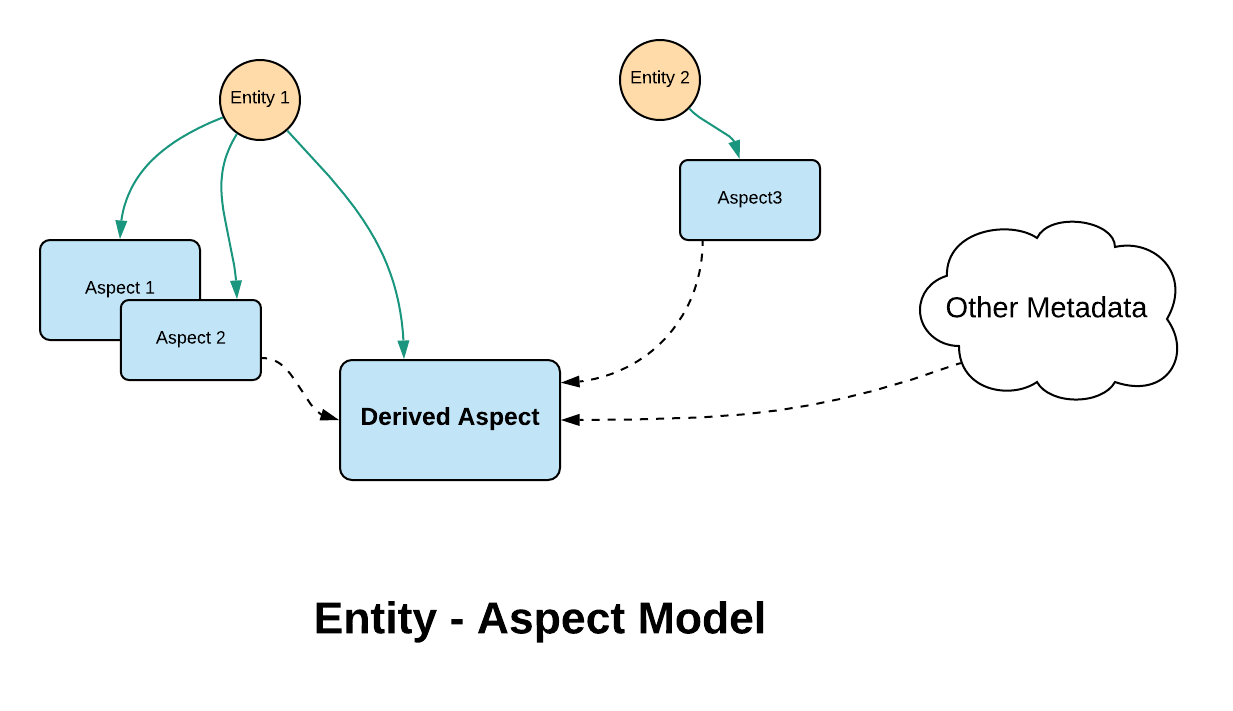
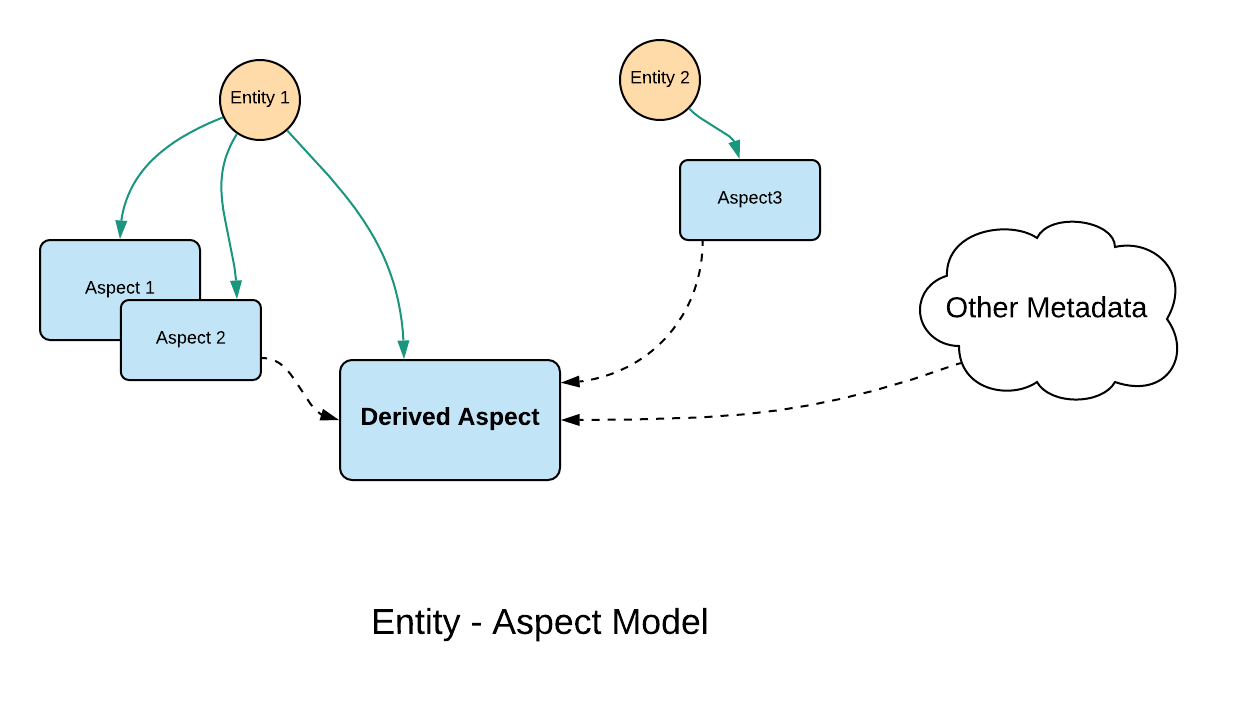
feat(derived-metadata): RFC for derived aspects
Updating the pictures and making content more clearer.

Changed region(s): [[0.2466, 0.8354, 0.6164, 0.8973]]

diff --git a/docs/rfc/derived-aspects/derived-aspects.md b/docs/rfc/derived-aspects/derived-aspects.md
@@ -16,18 +16,20 @@ In this feature we will discuss how we can enable search and discovery on the de
 
 ## Basic example
 
-Metadata `Health` of a dataset is a typical example of this feature. The details of metadata `Health` will be covered in a separate RFC.
+Metadata `Health` of a dataset is a typical example of this feature. The details of metadata `Health` will be covered in a separate RFC (the review of `Health` metadata is out of scope of this RFC)
 
 To put it simple,  
-- Health is a derived using metadata from multiple aspects
-- Promote healthy datasets in search of the datasets
-- There are organizational needs to rollup unhealthy (or healthy) datasets to a ldap/manager/team. This has the needs to query graph in conjucntion with health metadata.
+- Health metadata is derived using metadata from multiple aspects.
+- A need for promoting healthy datasets in search of the datasets.
+- There are organizational needs to rollup unhealthy (or healthy) datasets to a ldap/manager/team. This has the needs to query graph in conjunction with health metadata.
+    - Number of unhealthy datasets owned by me.
+    - Number of unhealthy datasets owned by my organization.
 
 ## Motivation
 In the context of derived metadata, we need the ability to 
 1. Compute from different aspects
-2. Maintaining versions of the derived metadata 
-3. Notify in the event of change of derived metadata
+2. Maintain versions of the derived metadata 
+3. Notify in the event of change in derived metadata
 4. Search of entities powered with derived metadata
 5. Graph query needs of entities powered with derived metadata.  
 
@@ -36,7 +38,7 @@ In the context of derived metadata, we need the ability to
 Derived metadata can be modelled as an aspect of an entity. 
 This is similar to any other aspect but with subtle differences.
 
-- Value of this aspect gets computed only when `GET` API is called. 
+- Value of this aspect gets computed only when `GET` API is invoked. 
 - `GET` API computes, persists and retrieves the metadata from the KV store.
 
 ### Entity Aspect Model
@@ -63,17 +65,17 @@ Whereas, `GET` API for derived aspect, does something more than that. A typical 
 4. Retrieve latest value of derived metadata and serve the `GET` request.
   
 The persistence of the derived aspect follows GMA architecture. This helps with few of the motivational points mentioned. 
-- Versioning capabilities of the metadata 
-- Notification in the form of MAE when derived aspect metadata has changed. 
+- Versioning capabilities of the derived metadata 
+- Notification in the form of MAE when derived metadata has changed. 
 
-The MAEs produced will help us power both GMA indexes search and graph. This is similar to any other GMA aspect. 
+The MAEs produced will furher power both search and graph GMA indices. This is similar to any other GMA aspect. 
 
 ### Refresh of derived aspect metadata
 `GET` operation on derived aspect always gives the current state of derived metadata. 
 
 Often, `GET` operation might not be called for all entity values. Hence, peeking into the DB doesn't guarantee to give the true state of derived aspect.
    
-Depending on how fresh we need GMA indexes and the how often we want to notify on the changes of derived aspect metadata, there is a need for a CRON job which calls GET operation for all URNs of the entity.  
+Depending on how fresh we need GMA indexes and how often we want to notify on the changes of derived aspect metadata, there is a need for a CRON job which calls GET operation for all URNs of the entity.  
 
  ![Backfill Derived Aspects](Backfill-Process.png)
 
@@ -84,30 +86,30 @@ In the above, a CRON job on a nightly basis calls `GET` API of derived aspect. T
 
 ## How we teach this
 
-- Derived metadata is derived from multiple of aspects of possibly different entities with or without any other auxiliary information.  
-- Derived metadata can be modelled as aspects and are called as Derived Aspects. These are very similar to any other GMA aspect.
-- `GET` API of derivedAspect always gives the up-to date derived data.
-- A CRON job maintains the freshness of the derived aspect persisted and GMA indexes.
+- Derived metadata is derived from multiple aspects of possibly different(or same) entities with(or without) any other auxiliary information.  
+- Derived metadata can be modelled as aspects and are called as `Derived Aspects`. These are very similar to any other GMA aspect.
+- `GET` API of `Derived Aspect` always gives the up-to date derived metadata.
+- A CRON job maintains the freshness of the `Derived Aspect` persisted in KV store and GMA indices.
 
 ## Drawbacks
  
 As more and more derived aspects are onboarded, additional load on the KV store is inevitable.  
 
-On the other alternate design, we considered not to persist the metadata in KV store. But, this would involve emitting MAEs on every GET call of derived aspect. This can be overwhelming on GMA indexes pipelines.
+On the other hand, alternate design, doesn't persist the metadata in KV store. And would involve emitting MAEs on every GET call of derived aspect. This can be overwhelming on GMA indexes pipelines.
 
-There is a tradeoff in choosing the KV store to persist more metadata on derived aspects, compared to overwhelming GMA indexing pipelines. Given that we have horizontally scalable KV store solutions, I believe this should be of the least concern. 
+There is a tradeoff in choosing the KV store to persist more metadata for derived aspects, compared to overwhelming GMA indexing pipelines. Given that we have horizontally scalable KV store solutions, I believe this should be of the least concern. 
 
 ## Alternatives
 
 In the alternate design, we don't persist derived metadata in the KV store. The workflow looks like below. 
 
-- `GET` API computes the current state of derived metadata. The computed information is passed onto the caller without persisting.  
+- `GET` API computes the current state of derived metadata. The computed information is returned to the caller without persisting in KV store.  
 - `GET` API on derived aspect also emits MAE before returning to client. 
 - Similar to the proposed design, a nightly CRON process always calls `GET` API for all entities. 
 
 There are few major drawbacks in this approach and hence I am inclined to proposed design. 
 1. Lots of MAEs are emitted. Hence, can potentially overwhelm GMA indexing pipelines. 
-2. MAE is emitted even when there is no change in metadata. This is a false positive. Clients can't rely on such notifications.
+2. MAEs are emitted even when there is no change in metadata. This is a false positive. Clients can't rely on such notifications.
 3. Versioning of derived metadata is not present and hence the state of derived metadata a few day back can't be answered.
 
 ## Rollout / Adoption Strategy
